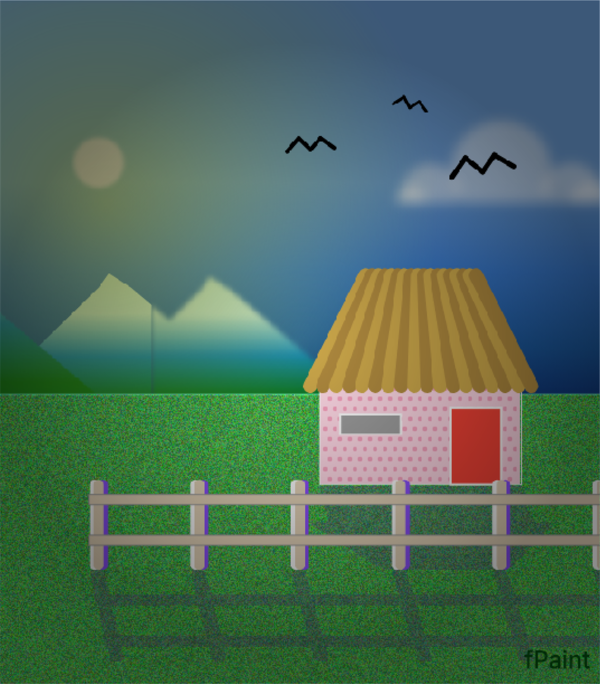
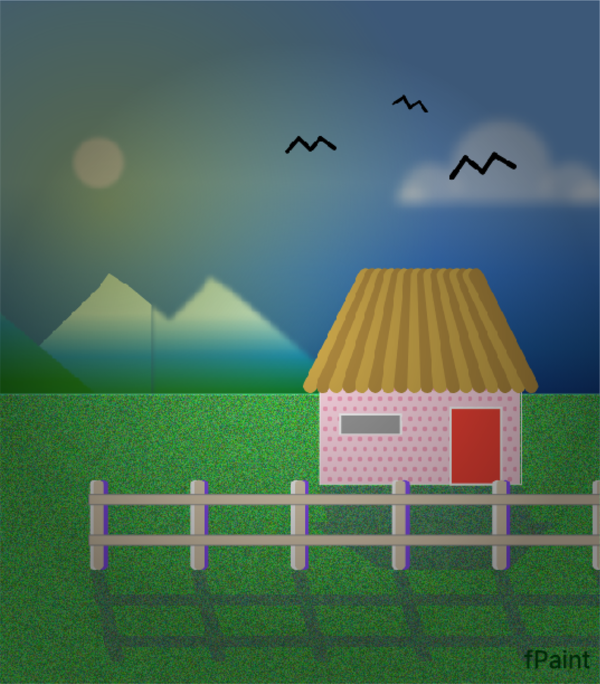
fix test

Changed region(s): [[0.0, 0.5526, 1.0, 1.0]]

diff --git a/test/widgets/selector_widget_test.dart b/test/widgets/selector_widget_test.dart
@@ -342,7 +342,8 @@ void main() {
         (tester.widget<Container>(effectsBackground).decoration! as BoxDecoration).color,
         AppColors.buttonBackground,
       );
-      expect(tester.widget<AppSvgIcon>(cancelIcon).color, AppColors.buttonDanger);
+      expect(tester.widget<AppSvgIcon>(cancelIcon).useSourceColors, isTrue);
+      expect(tester.widget<AppSvgIcon>(cancelIcon).color, isNull);
 
       await tester.tap(copyTooltip);
       await tester.pump();